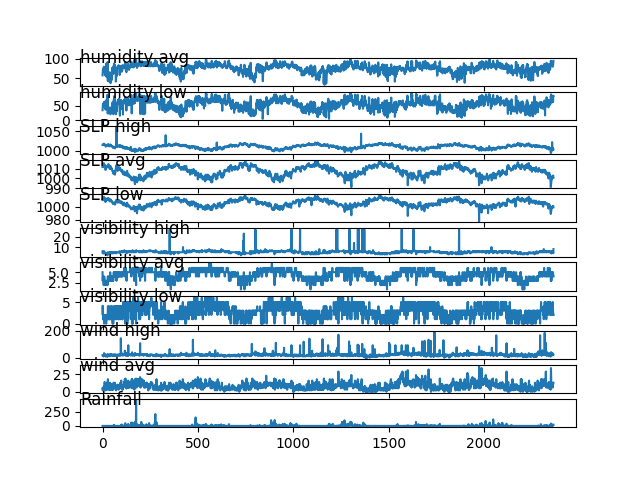
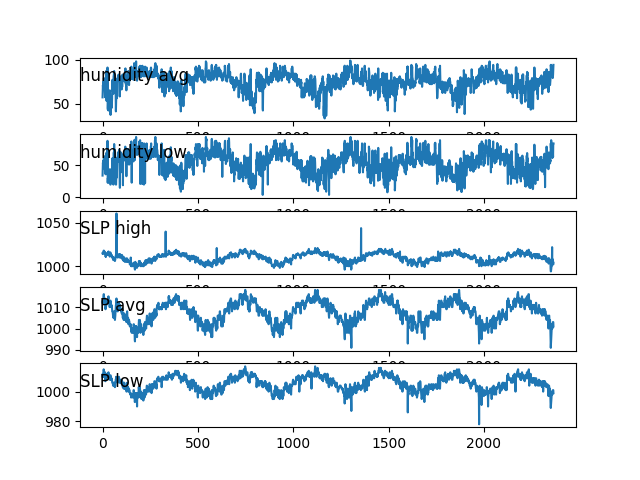
Our Dataset Changed

Changed region(s): [[0.0625, 0.0938, 0.9062, 0.9062]]

diff --git a/KNN/rainfall_knn2.py b/KNN/rainfall_knn2.py
@@ -21,8 +21,20 @@ for group in groups:
     i += 1
 plt.show()
 
-# specify columns to plot for columns 10 to 19
-groups = [x for x in range(10, 21)]
+# specify columns to plot for columns 10 to 14
+groups = [x for x in range(10, 15)]
+i = 1
+# plot each column
+plt.figure()
+for group in groups:
+    plt.subplot(len(groups), 1, i)
+    plt.plot(values[:, group])
+    plt.title(df.columns[group], y=0.5, loc='left')
+    i += 1
+plt.show()
+
+# specify columns to plot for columns 15 to 20
+groups = [x for x in range(15, 21)]
 i = 1
 # plot each column
 plt.figure()

diff --git a/LSTM/rainfall_lstm2.py b/LSTM/rainfall_lstm2.py
@@ -28,8 +28,20 @@ for group in groups:
     i += 1
 plt.show()
 
-# specify columns to plot for columns 10 to 19
-groups = [x for x in range(10, 21)]
+# specify columns to plot for columns 10 to 14
+groups = [x for x in range(10, 15)]
+i = 1
+# plot each column
+plt.figure()
+for group in groups:
+    plt.subplot(len(groups), 1, i)
+    plt.plot(values[:, group])
+    plt.title(df.columns[group], y=0.5, loc='left')
+    i += 1
+plt.show()
+
+# specify columns to plot for columns 15 to 20
+groups = [x for x in range(15, 21)]
 i = 1
 # plot each column
 plt.figure()

diff --git a/Multilple Linear Regression/rainfall_mlr2.py b/Multilple Linear Regression/rainfall_mlr2.py
@@ -24,8 +24,20 @@ for group in groups:
     i += 1
 plt.show()
 
-# specify columns to plot for columns 10 to 19
-groups = [x for x in range(10, 21)]
+# specify columns to plot for columns 10 to 14
+groups = [x for x in range(10, 15)]
+i = 1
+# plot each column
+plt.figure()
+for group in groups:
+    plt.subplot(len(groups), 1, i)
+    plt.plot(values[:, group])
+    plt.title(df.columns[group], y=0.5, loc='left')
+    i += 1
+plt.show()
+
+# specify columns to plot for columns 15 to 20
+groups = [x for x in range(15, 21)]
 i = 1
 # plot each column
 plt.figure()

diff --git a/Neural Networks with Back Propagation/rainfall_neural_back2.py b/Neural Networks with Back Propagation/rainfall_neural_back2.py
@@ -23,8 +23,20 @@ for group in groups:
     i += 1
 plt.show()
 
-# specify columns to plot for columns 10 to 19
-groups = [x for x in range(10, 21)]
+# specify columns to plot for columns 10 to 14
+groups = [x for x in range(10, 15)]
+i = 1
+# plot each column
+plt.figure()
+for group in groups:
+    plt.subplot(len(groups), 1, i)
+    plt.plot(values[:, group])
+    plt.title(df.columns[group], y=0.5, loc='left')
+    i += 1
+plt.show()
+
+# specify columns to plot for columns 15 to 20
+groups = [x for x in range(15, 21)]
 i = 1
 # plot each column
 plt.figure()
